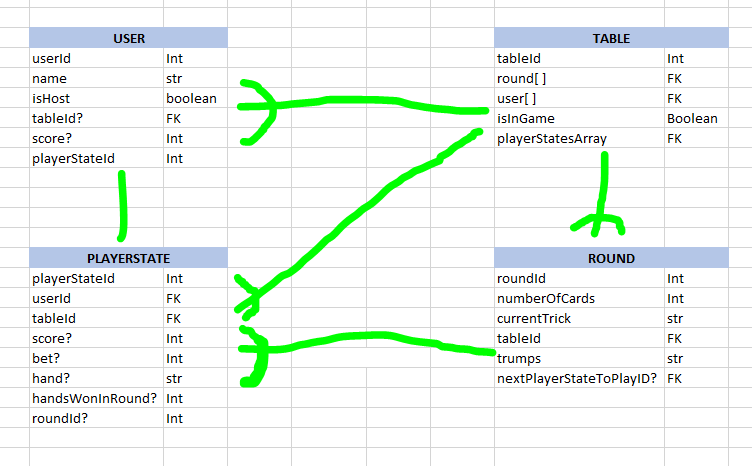
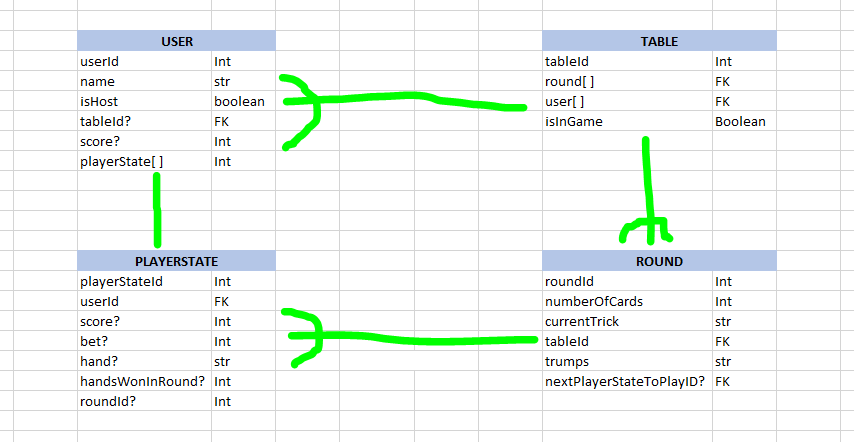
updated ERD

diff --git a/src/controllers/playerState.js b/src/controllers/playerState.js
@@ -1,7 +1,7 @@
 import PlayerState from '../domain/playerState.js'
 import { sendDataResponse, sendMessageResponse } from '../utils/responses.js'
 
-export const createPlayerState = async (req, res) => {
+export const createPlayerStates = async (req, res) => {
     const userId = Number(req.params.id)
     const playerStateToCreate = await PlayerState.fromJSON(req.body, userId)
 
@@ -10,12 +10,12 @@ export const createPlayerState = async (req, res) => {
     return sendDataResponse(res, 200, {...createdPlayerState.toJSON()})
 }
 
-export const getPlayerStateByUserId = async (req, res) => {
+export const getPlayerStatesByUserId = async (req, res) => {
     const userToFindId = Number(req.params.id)
 
-    const foundPlayerState = await PlayerState.findById(userToFindId)
+    const foundPlayerStates = await PlayerState.findManyByUser(userToFindId)
 
-    if(!foundPlayerState) return sendMessageResponse(res, 500, 'unable to find user')
+    if(!foundPlayerStates) return sendMessageResponse(res, 500, 'unable to find user')
 
-    return sendDataResponse(res, 200, { foundPlayerState })
+    return sendDataResponse(res, 200, { foundPlayerStates })
 }

diff --git a/src/routes/user.js b/src/routes/user.js
@@ -1,14 +1,14 @@
 import { Router } from 'express'
 
 import { createUser, getUserById, updateById, getAllUserByTableId } from '../controllers/user.js'
-import { createPlayerState, getPlayerStateByUserId } from '../controllers/playerState.js'
+import { createPlayerStates, getPlayerStatesByUserId } from '../controllers/playerState.js'
 
 const router = Router()
 
 router.post('/', createUser)
-router.post('/:id/playerState', createPlayerState)
+router.post('/:id/playerStates', createPlayerStates)
 router.get('/:id', getUserById)
-router.get('/:id/playerState', getPlayerStateByUserId)
+router.get('/:id/playerStates', getPlayerStatesByUserId)
 router.get('/table/:id', getAllUserByTableId)
 router.patch('/:id', updateById)
 

diff --git a/src/domain/playerState.js b/src/domain/playerState.js
@@ -69,4 +69,18 @@ export default class PlayerState {
 
         return null
     }
+
+    static async findManyByUser(userId) {
+        return PlayerState._findMany({ key: 'userId', value: userId })
+    }
+    
+    static async _findMany({ key, value }) {
+        const query = {
+          where: { [key]: value },
+        }
+    
+        const foundPlayerStates = await dbClient.playerState.findMany(query)
+    
+        return foundPlayerStates.map((playerState) => PlayerState.fromDb(playerState))
+    }
 }
